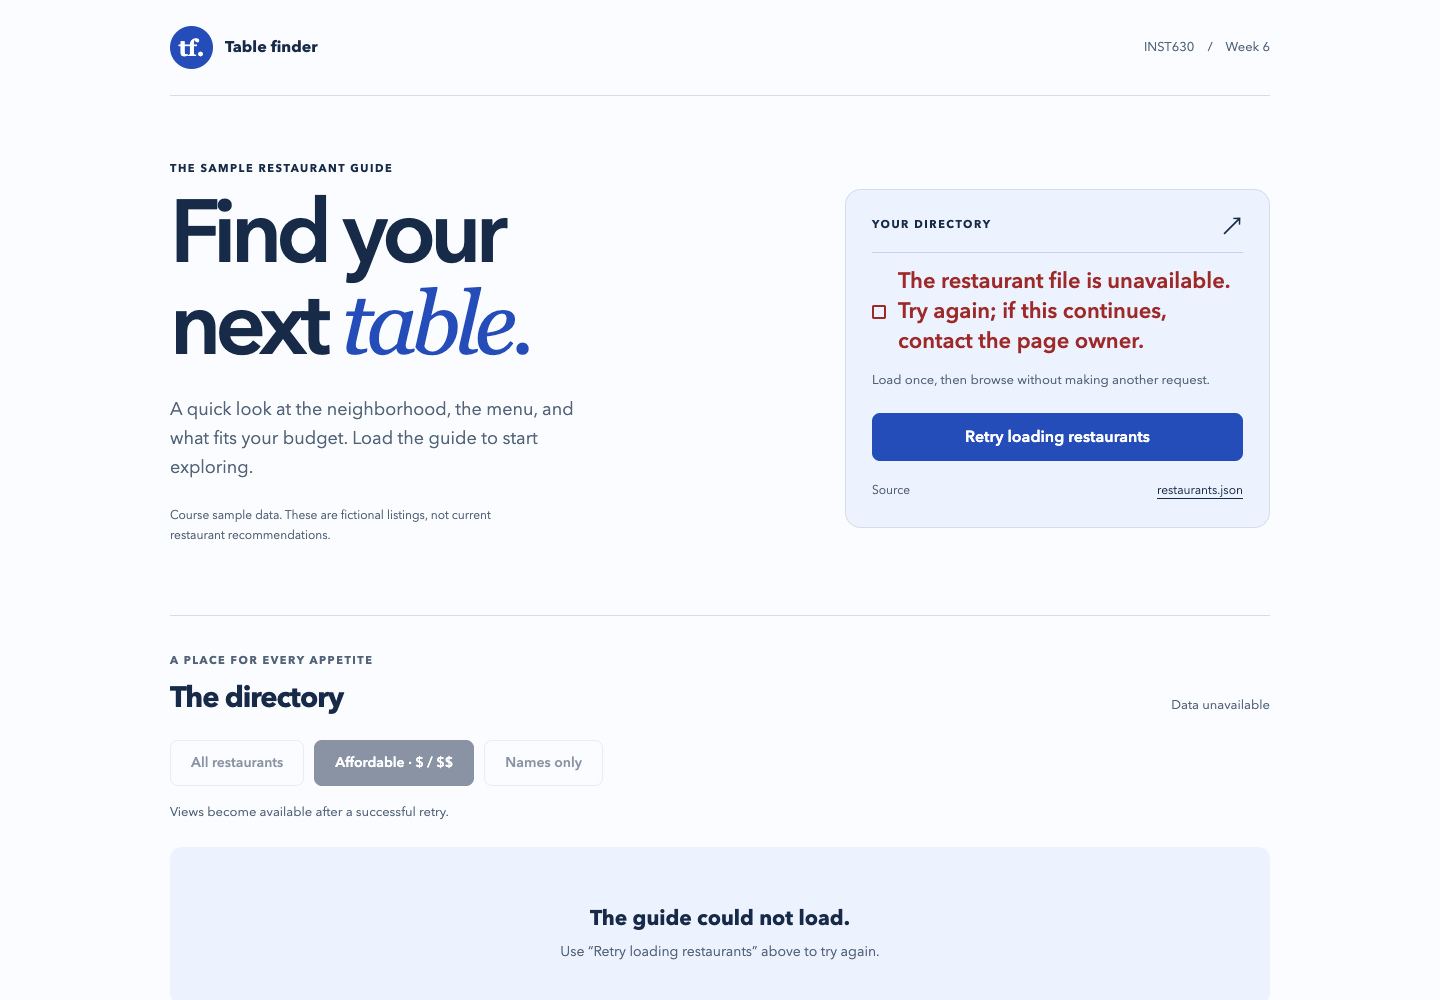
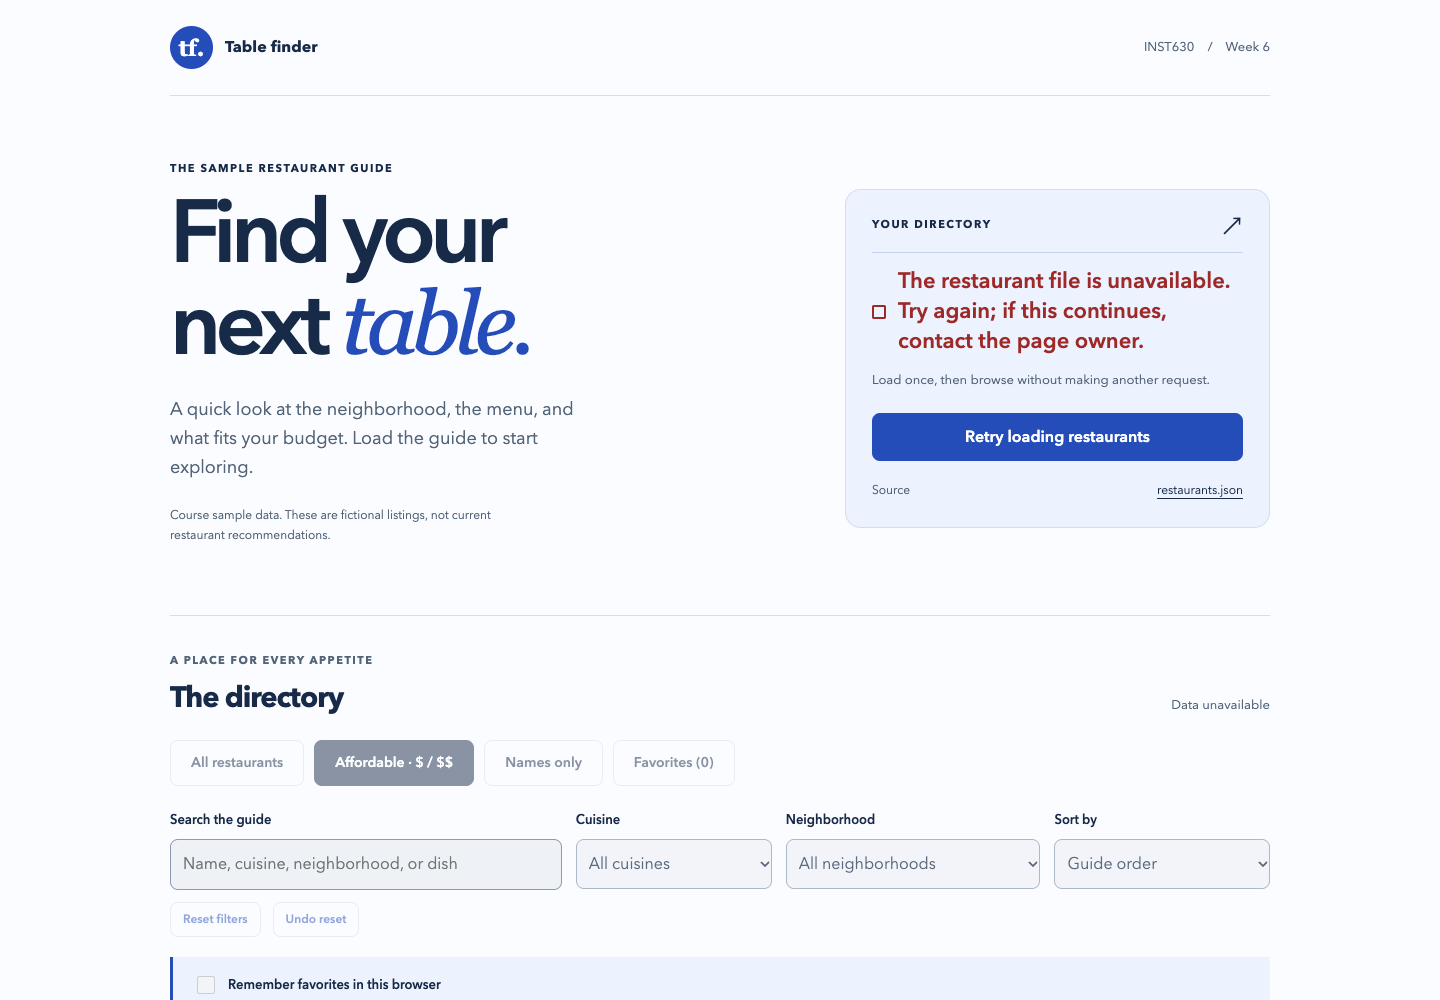
Show extended features and verification evidence

diff --git a/README.md b/README.md
@@ -4,7 +4,7 @@
 
 <p align="center">
   <strong>An async JavaScript exercise with a complete request and recovery flow.</strong><br>
-  Browse eight sample restaurants, narrow the list by price, or find a place by name.
+  Explore eight sample restaurants with combined filters, sorting, and a personal shortlist.
 </p>
 
 <p align="center">
@@ -28,7 +28,7 @@
 
 ## The interaction
 
-An INST630 Week 6 project built from the supplied `tutorial_6_api` starter. The exercise moves restaurant records out of JavaScript and into a JSON file requested over HTTP. The interface shows what is happening while that request runs, enables browsing after validation, and offers a retry when loading fails.
+An INST630 Week 6 project built from the supplied `tutorial_6_api` starter. The exercise moves restaurant records out of JavaScript and into a JSON file requested over HTTP. The interface shows what is happening while that request runs, enables browsing after validation, and offers a retry when loading fails. The extended guide adds a complete discovery flow: search across names and dishes, combine cuisine and neighborhood filters, sort the results, and keep a favorite shortlist.
 
 <img src="docs/assets/preview-desktop.png" alt="Desktop Table finder interface with eight loaded restaurant cards, three browsing views, and a name lookup form." width="100%">
 
@@ -39,7 +39,20 @@ An INST630 Week 6 project built from the supplied `tutorial_6_api` starter. The 
 <img src="docs/assets/preview-error.png" alt="Failed request state with a message, retry button, disabled browsing, and cleared results." width="100%">
 </details>
 
-**The data is a course fixture.** These eight listings, ratings, prices, hours, and phone numbers are sample content from the starter, not current restaurant information. The page requests its own `restaurants.json`; it does not call a commercial restaurant API, store searches, or send them to another service.
+**The data is a course fixture.** These eight listings, ratings, prices, hours, and phone numbers are sample content from the starter, not current restaurant information. The page requests its own `restaurants.json`; it does not call a commercial restaurant API or send searches or favorites to another service. Searches are not persisted. Favorites stay in the current tab by default; the optional Remember favorites checkbox stores a versioned list of restaurant IDs in this browser. Turning it off removes that saved record when storage is available.
+
+## Beyond the brief
+
+| Extension                   | User behavior                                                                           | Engineering decision                                                                                                         |
+| --------------------------- | --------------------------------------------------------------------------------------- | ---------------------------------------------------------------------------------------------------------------------------- |
+| **Combined discovery**      | Search names, cuisines, neighborhoods, and dishes; narrow results with multiple filters | A pure selection function composes filters against the fetched array, with normalized text for accents and capitalization    |
+| **Predictable sorting**     | Order cards and names by rating, price range, name, or the original guide order         | Sorting works on a new array, preserves source order, and uses explicit tie rules                                            |
+| **Favorite shortlist**      | Save a place from its card or lookup result, then browse Favorites                      | Shared favorite IDs keep both surfaces synchronized; keyboard focus is restored when a saved card disappears                 |
+| **Optional persistence**    | Choose whether favorites should survive a reload                                        | Saving is off by default; version checks reject corrupt data, and blocked storage falls back to tab memory                   |
+| **Reset with Undo**         | Clear filters and restore the previous query, view, and sort                            | One state snapshot is recoverable until the next filter or view change or data request                                       |
+| **Independent model tests** | Keep the discovery logic verifiable without rendering the page                          | Browser modules separate data selection and storage from DOM updates; tests check fixed expectations and source immutability |
+
+These extensions stay within the original HTML, CSS, and JavaScript approach. There is no framework, build step, account system, or runtime dependency.
 
 ## A short walkthrough
 
@@ -49,25 +62,28 @@ An INST630 Week 6 project built from the supplied `tutorial_6_api` starter. The 
 4. Enter **Pho Corner** in the name lookup. Matching ignores capitalization and surrounding spaces.
 5. Expand **Behind the guide** and choose **Test a failed request**. The missing file produces an error through the same workflow, clears results, and disables browsing.
 6. Choose **Retry loading restaurants** to recover using the correct JSON file.
+7. Search for **ramen**, combine cuisine and neighborhood choices, or sort by **Highest rated**. Filters apply to each view, including Names only and Favorites.
+8. Save **Pho Corner**, then open **Favorites**. Enable **Remember favorites in this browser** only if you want that shortlist restored on your next visit.
+9. Choose **Reset filters**, then **Undo reset**. Your previous query, view, and sorting return.
 
 ## Class requirements
 
-| Requirement                                         | Implementation                                                                                                        | Visible result                                                                 |
-| --------------------------------------------------- | --------------------------------------------------------------------------------------------------------------------- | ------------------------------------------------------------------------------ |
-| Load external JSON with `fetch()` and `async/await` | `loadData()` defaults to `restaurants.json`, awaits the response, checks `response.ok`, then awaits `response.json()` | Eight records arrive through an HTTP request                                   |
-| Loading state                                       | `updateStatus()`, `toggleMethodButtons()`, `isLoading`, and `aria-busy`                                               | Status text and a spinner appear; duplicate requests and browsing are disabled |
-| `forEach`                                           | `renderRestaurants()` creates safe DOM elements for each record                                                       | Restaurant cards with cuisine, price, rating, hours, and phone number          |
-| `filter`                                            | `displayAffordableRestaurants()` keeps price ranges of `$` or `$$`                                                    | Five affordable restaurants from the supplied fixture                          |
-| `map`                                               | `displayRestaurantNames()` transforms the loaded array into strings                                                   | An ordered list of restaurant names                                            |
-| `find`                                              | `findRestaurant()` looks up one record by normalized full name                                                        | A matching card or guidance for a missing name                                 |
-| Error recovery                                      | `try/catch/finally`, a retry action, and a ten second abort timeout                                                   | Errors remain beside the loading control; retry requests the correct file      |
-| Enable and disable appropriately                    | Controls depend on validated, nonempty records                                                                        | Failed, pending, and empty requests leave data actions disabled                |
+| Requirement                                         | Implementation                                                                                                                | Visible result                                                                 |
+| --------------------------------------------------- | ----------------------------------------------------------------------------------------------------------------------------- | ------------------------------------------------------------------------------ |
+| Load external JSON with `fetch()` and `async/await` | `loadData()` defaults to `restaurants.json`, awaits the response, checks `response.ok`, then awaits `response.json()`         | Eight records arrive through an HTTP request                                   |
+| Loading state                                       | `updateStatus()`, `toggleMethodButtons()`, `isLoading`, and `aria-busy`                                                       | Status text and a spinner appear; duplicate requests and browsing are disabled |
+| `forEach`                                           | `renderRestaurants()` creates safe DOM elements for each record                                                               | Restaurant cards with cuisine, price, rating, hours, and phone number          |
+| `filter`                                            | `displayAffordableRestaurants()` selects the affordable view; `selectRestaurants()` uses `filter` to keep `$` or `$$` records | Five affordable restaurants from the supplied fixture                          |
+| `map`                                               | `displayRestaurantNames()` selects the name view; `renderDirectory()` uses `map` on matching loaded records                   | An ordered list of restaurant names                                            |
+| `find`                                              | `findRestaurant()` looks up one record by normalized full name                                                                | A matching card or guidance for a missing name                                 |
+| Error recovery                                      | `try/catch/finally`, a retry action, and a ten second abort timeout                                                           | Errors remain beside the loading control; retry requests the correct file      |
+| Enable and disable appropriately                    | Controls depend on validated, nonempty records                                                                                | Failed, pending, and empty requests leave data actions disabled                |
 
 The assignment asks for at least three array methods; the interface uses all four. These methods operate on fetched records rather than a duplicate array embedded in the script.
 
 ## How the async flow works
 
-`restaurants` holds the validated records and `isLoading` prevents overlapping requests. Both live at script scope so the named event handlers can share the current state. The response, parsed records, timeout, and abort controller stay local to `loadData()`; view functions use local variables for their filtered or transformed arrays.
+`restaurants` holds the validated records and `isLoading` prevents overlapping requests. Both live at module scope so the named event handlers can share the current state without exposing globals. Filter state, favorite IDs, and a single undo snapshot also remain in the interface module. The response, parsed records, timeout, and abort controller stay local to `loadData()`; the pure model uses local variables for its filtered and sorted arrays. The original loaded array is never sorted in place.
 
 ```text
 Ready
@@ -119,7 +135,7 @@ BROWSER_CHANNEL=chrome npm test
 
 ## Verification
 
-All 17 browser tests passed locally in Chrome and in GitHub Actions using Chromium. The workflow runs on pushes and pull requests; the badge links to its latest result. The published Pages interface was also checked for successful loading, all four array methods, failed request recovery, and the root redirect.
+The suite now contains 32 tests: 26 browser tests and six independent model and storage tests. All passed locally in Chrome; the hosted workflow runs the same suite with Chromium. The workflow runs on pushes and pull requests; the badge links to its latest result. The class criteria are retained in the original 17 browser tests; additional checks cover the extended discovery and shortlist flows.
 
 | Coverage          | Cases                                                                                                                     |
 | ----------------- | ------------------------------------------------------------------------------------------------------------------------- |
@@ -148,7 +164,7 @@ The built in failure button requests `nonexistent-file.json`, demonstrating an H
 
 ## Design decisions
 
-The guide uses a compact loading panel beside the introduction, followed by a restaurant directory and a separate lookup form. Blue identifies actions and cuisine labels. Restaurant names use a serif face; controls use the system sans serif stack. The cards group the fields needed to compare places without adding images or external services.
+The guide uses a compact loading panel beside the introduction, followed by a restaurant directory and a separate lookup form. Blue identifies actions and cuisine labels. Restaurant names use a serif face; controls use the system sans serif stack. The cards group the fields needed to compare places without adding images or external services. Search and filtering stay next to the result count. The shortlist adds a practical decision step, while optional saving and Undo make recovery explicit.
 
 Two patterns from _Designing Interfaces: Patterns for Effective Interaction Design_, 3rd edition, by Jenifer Tidwell, Charles Brewer, and Aynne Valencia support the interaction:
 
@@ -166,9 +182,12 @@ asyncAndAPIs/
 ├── tutorial_6_api/
 │   ├── index.html              # guide structure and native controls
 │   ├── style.css               # responsive layouts and request states
-│   ├── script.js               # async loading, validation, and array methods
+│   ├── script.js               # async workflow, interface state, and rendering
+│   ├── directory-model.js      # validation and pure record selection
+│   ├── favorites-store.js      # versioned browser storage operations
 │   └── restaurants.json        # supplied course fixture
-├── tests/restaurants.test.cjs   # browser behavior and failure checks
+├── tests/restaurants.test.cjs   # 26 browser behavior and failure checks
+├── tests/directory-model.test.cjs # six independent model and storage checks
 ├── docs/assets/                 # banner and actual interface screenshots
 ├── .github/workflows/           # browser checks and manual Pages deployment
 ├── eslint.config.mjs            # JavaScript lint rules
